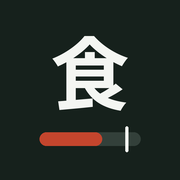
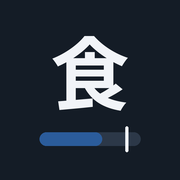
Add files via upload

Changed region(s): [[0.1944, 0.7222, 0.5833, 0.8333]]

diff --git a/index.html b/index.html
@@ -3,7 +3,7 @@
 <head>
 <meta charset="utf-8">
 <meta name="viewport" content="width=device-width, initial-scale=1, viewport-fit=cover">
-<meta name="theme-color" content="#16211C">
+<meta name="theme-color" content="#141C26">
 <title>Meal-log</title>
 <link rel="manifest" href="manifest.json">
 <link rel="icon" href="icon-192.png">
@@ -17,18 +17,24 @@
 <link href="https://fonts.googleapis.com/css2?family=Zen+Kaku+Gothic+New:wght@400;500;700&family=IBM+Plex+Mono:wght@400;500;600&display=swap" rel="stylesheet">
 <style>
 /* ============================================================
-   漆器（うるし）: 濃墨の地に朱と松葉。数字はタブular数字で桁を揃える
+   藍（あい）: 紺墨の地に藍と松葉。数字はタブular数字で桁を揃える
+
+   色は3状態を撃ち分けるためにある。全部を青にすると信号が死ぬので、
+   基調の藍＝まだ足りない、松葉＝届いた、金＝行き過ぎ、で使い分ける。
+   朱は削除ボタンだけに残す（取り返しのつかない操作の合図）
    ============================================================ */
 :root{
-  --bg:#E9EBE6;
+  --bg:#E9ECF1;
   --paper:#FFFFFF;
-  --ink:#16211C;
-  --ink-2:#3A4642;
-  --muted:#77817A;
-  --line:#D3D8D0;
-  --shu:#C4452D;        /* 朱 — 不足・行動を促す色 */
+  --ink:#141C26;
+  --ink-2:#3A4655;
+  --muted:#78828F;
+  --line:#D4D9E1;
+  --ai:#2B5C9B;         /* 藍 — 不足・行動を促す色 */
   --matsuba:#3A6B57;    /* 松葉 — 達成 */
   --kin:#B08A3E;        /* 金 — 超過の注意 */
+  --danger:#C4452D;     /* 朱 — 削除のみ */
+  --on-ink:#F1F4F8;     /* 濃地の上に載せる文字 */
   --r:4px;
   --pad:16px;
   --mono:"IBM Plex Mono",ui-monospace,monospace;
@@ -69,14 +75,14 @@ header .meta{font-family:var(--mono);font-size:12px;color:var(--muted);letter-sp
 .gauge-head .figs b{font-size:21px;font-weight:600;letter-spacing:-.02em}
 .gauge-head .figs span{font-size:12px;color:var(--muted);margin-left:3px}
 
-.track{position:relative;height:10px;background:#E4E7E1;border-radius:2px;overflow:hidden}
-.fill{position:absolute;inset:0 auto 0 0;background:var(--shu);border-radius:2px 0 0 2px;
+.track{position:relative;height:10px;background:#DEE3EA;border-radius:2px;overflow:hidden}
+.fill{position:absolute;inset:0 auto 0 0;background:var(--ai);border-radius:2px 0 0 2px;
       transition:width .45s cubic-bezier(.2,.7,.3,1)}
 .gauge.hit .fill{background:var(--matsuba)}
 .gauge.over .fill{background:var(--kin)}
 /* この先いつも通り食べた場合の着地点をハッチで見せる */
 .ghost{position:absolute;top:0;bottom:0;transition:left .45s,width .45s;
-  background:repeating-linear-gradient(115deg,#C4452D33 0 4px,transparent 4px 8px)}
+  background:repeating-linear-gradient(115deg,#2B5C9B33 0 4px,transparent 4px 8px)}
 .tick{position:absolute;top:-3px;bottom:-3px;width:2px;background:var(--ink);border-radius:1px}
 .gauge .note{margin:7px 0 0;font-size:12px;color:var(--muted)}
 .gauge .note b{font-family:var(--mono);color:var(--ink-2);font-weight:600}
@@ -87,7 +93,7 @@ header .meta{font-family:var(--mono);font-size:12px;color:var(--muted);letter-sp
   background:var(--paper);border:1px solid var(--line);border-radius:var(--r);
   padding:9px 12px;font-size:13px;display:flex;gap:7px;align-items:center;
 }
-.chip:active{background:#F3F5F1}
+.chip:active{background:#EEF1F6}
 .chip .p{font-family:var(--mono);font-size:11px;color:var(--muted)}
 
 /* --- 記録リスト -------------------------------------------- */
@@ -101,21 +107,36 @@ header .meta{font-family:var(--mono);font-size:12px;color:var(--muted);letter-sp
 .log-row .v b{font-weight:600}
 .log-row .v span{color:var(--muted)}
 .log-row{width:100%;text-align:left;font:inherit;color:inherit;cursor:pointer}
-.log-row:active{background:#F3F5F1}
+.log-row:active{background:#EEF1F6}
 .log-row .go{color:var(--muted);font-size:15px;flex:none;line-height:1}
 .empty{color:var(--muted);font-size:13px;padding:18px 2px}
-.danger{width:100%;padding:13px;font-size:13px;color:var(--shu);text-align:center}
-.danger.armed{background:var(--shu);color:#F4F6F2;border-radius:var(--r);font-weight:500}
+
+/* --- 食事の区分 -------------------------------------------- */
+.slot-head{display:flex;align-items:baseline;justify-content:space-between;margin:16px 2px 7px}
+.slot-head:first-child{margin-top:2px}
+.slot-head .nm{font-size:13px;font-weight:700;color:var(--ink-2)}
+.slot-head .sum{font-family:var(--mono);font-size:11px;color:var(--muted);
+  font-variant-numeric:tabular-nums;letter-spacing:.02em}
+.slotsel{display:flex;flex-wrap:wrap;gap:6px;margin:0 0 14px}
+.slotsel button{
+  padding:8px 13px;font-size:13px;border:1px solid var(--line);
+  border-radius:var(--r);background:var(--paper);color:var(--ink-2);
+}
+.slotsel button[aria-pressed="true"]{
+  background:var(--ink);color:var(--on-ink);border-color:var(--ink);font-weight:500}
+.slot-label{font-size:12px;color:var(--muted);margin:0 0 7px}
+.danger{width:100%;padding:13px;font-size:13px;color:var(--danger);text-align:center}
+.danger.armed{background:var(--danger);color:var(--on-ink);border-radius:var(--r);font-weight:500}
 
 /* --- 下部の操作 -------------------------------------------- */
 .dock{
   position:fixed;left:0;right:0;bottom:0;z-index:20;
-  background:linear-gradient(180deg,#E9EBE600,#E9EBE6 22%);
+  background:linear-gradient(180deg,#E9ECF100,#E9ECF1 22%);
   padding:16px var(--pad) calc(16px + env(safe-area-inset-bottom));
 }
 .dock-in{max-width:480px;margin:0 auto;display:flex;gap:8px}
 .btn{
-  flex:1;background:var(--ink);color:#F4F6F2;border-radius:var(--r);
+  flex:1;background:var(--ink);color:var(--on-ink);border-radius:var(--r);
   padding:15px 10px;font-size:14px;font-weight:500;text-align:center;
 }
 .btn:active{transform:translateY(1px)}
@@ -124,7 +145,7 @@ header .meta{font-family:var(--mono);font-size:12px;color:var(--muted);letter-sp
 
 /* --- シート（確認カード）----------------------------------- */
 .sheet{
-  position:fixed;inset:0;z-index:40;background:rgba(22,33,28,.45);
+  position:fixed;inset:0;z-index:40;background:rgba(20,28,38,.48);
   display:flex;align-items:flex-end;justify-content:center;
 }
 .sheet[hidden]{display:none}
@@ -137,7 +158,7 @@ header .meta{font-family:var(--mono);font-size:12px;color:var(--muted);letter-sp
 @keyframes rise{from{transform:translateY(18px);opacity:.4}to{transform:none;opacity:1}}
 .sheet-head{display:flex;align-items:baseline;justify-content:space-between;margin-bottom:4px}
 .sheet-head h2{font-size:18px}
-.sheet-note{font-size:12px;color:var(--shu);margin:0 0 16px}
+.sheet-note{font-size:12px;color:var(--ai);margin:0 0 16px}
 
 /* --- 品目と量トグル ---------------------------------------- */
 .item{background:var(--paper);border:1px solid var(--line);border-radius:var(--r);padding:13px 14px;margin-bottom:8px}
@@ -151,12 +172,12 @@ header .meta{font-family:var(--mono);font-size:12px;color:var(--muted);letter-sp
   border-right:1px solid var(--line);transition:background .15s;
 }
 .seg button:last-child{border-right:none}
-.seg button[aria-pressed="true"]{background:var(--ink);color:#F4F6F2;font-weight:500}
+.seg button[aria-pressed="true"]{background:var(--ink);color:var(--on-ink);font-weight:500}
 .item-figs{margin-top:9px;font-family:var(--mono);font-size:12px;color:var(--muted);letter-spacing:.02em}
 .item-figs b{color:var(--ink);font-weight:600}
 
 .total{
-  background:var(--ink);color:#F4F6F2;border-radius:var(--r);
+  background:var(--ink);color:var(--on-ink);border-radius:var(--r);
   padding:14px 16px;display:flex;align-items:baseline;justify-content:space-between;margin:14px 0 10px;
 }
 .total .k{font-family:var(--mono);font-size:24px;font-weight:600;letter-spacing:-.02em}
@@ -164,33 +185,37 @@ header .meta{font-family:var(--mono);font-size:12px;color:var(--muted);letter-sp
 .total .p{font-family:var(--mono);font-size:13px;opacity:.8;text-align:right}
 
 /* --- 入力 --------------------------------------------------- */
-input[type=text],input[type=email],input[type=number],textarea{
+/* iOSは入力欄の文字が16px未満だと、触れた瞬間に画面を勝手に拡大する。
+   viewportでズーム自体を禁じると指で広げられなくなるので、
+   拡大の口実の方を取り除く（＝16pxを下回らせない） */
+input[type=text],input[type=email],input[type=number],input[type=password],
+input[type=time],textarea,select{
   width:100%;background:var(--paper);border:1px solid var(--line);border-radius:var(--r);
-  padding:13px 14px;font:inherit;color:var(--ink);
+  padding:12px 14px;font:inherit;font-size:16px;color:var(--ink);
 }
-input:focus,textarea:focus,button:focus-visible{outline:2px solid var(--shu);outline-offset:1px}
+input:focus,textarea:focus,button:focus-visible{outline:2px solid var(--ai);outline-offset:1px}
 .row{display:flex;gap:8px}
 
 /* --- 週次レビュー ------------------------------------------- */
 .review{background:var(--paper);border:1px solid var(--line);border-radius:var(--r);padding:18px 16px}
 .review h3{font-size:16px;margin-bottom:10px}
 .review .sum{font-size:13px;color:var(--ink-2);white-space:pre-line;margin:0 0 14px}
-.review .act{border-left:3px solid var(--shu);padding:2px 0 2px 11px;font-size:14px;font-weight:500}
+.review .act{border-left:3px solid var(--ai);padding:2px 0 2px 11px;font-size:14px;font-weight:500}
 
 .authmsg{font-size:13px;margin:10px 2px 0;line-height:1.6}
-.authmsg.err{color:var(--shu)}
+.authmsg.err{color:var(--ai)}
 .authmsg.ok{color:var(--matsuba)}
 .authmsg[hidden]{display:none}
 .boot{color:var(--muted);font-size:13px;padding:26px 2px}
 
 .toast{
   position:fixed;left:50%;bottom:96px;transform:translateX(-50%);z-index:60;
-  background:var(--ink);color:#F4F6F2;padding:11px 18px;border-radius:var(--r);
+  background:var(--ink);color:var(--on-ink);padding:11px 18px;border-radius:var(--r);
   font-size:13px;white-space:nowrap;
 }
 .toast[hidden]{display:none}
-.spin{display:inline-block;width:13px;height:13px;border:2px solid #F4F6F244;
-  border-top-color:#F4F6F2;border-radius:50%;animation:sp .7s linear infinite;vertical-align:-2px}
+.spin{display:inline-block;width:13px;height:13px;border:2px solid #F1F4F844;
+  border-top-color:var(--on-ink);border-radius:50%;animation:sp .7s linear infinite;vertical-align:-2px}
 @keyframes sp{to{transform:rotate(360deg)}}
 
 @media (prefers-reduced-motion:reduce){
@@ -305,6 +330,26 @@ function today() {
   return new Date(jst.getTime() - 4*3600e3).toISOString().slice(0,10);
 }
 const DAY = today();
+
+/* 食事の区分。表示順はそのまま1日の流れになる */
+const SLOTS = [
+  { key:'breakfast',  label:'朝食' },
+  { key:'lunch',      label:'昼食' },
+  { key:'dinner',     label:'夕食' },
+  { key:'snack',      label:'間食' },
+  { key:'supplement', label:'補食' },
+  { key:'other',      label:'その他' },
+];
+
+/* マイフードからの1タップ記録には推定が挟まらないので、
+   時刻から当たりをつける。外れていてもその場で押し直せる */
+function guessSlot() {
+  const h = Number(new Date(Date.now() + 9*3600e3).toISOString().slice(11,13));
+  if (h >= 4  && h < 10) return 'breakfast';
+  if (h >= 10 && h < 15) return 'lunch';
+  if (h >= 17 && h < 22) return 'dinner';
+  return 'snack';
+}
 
 let state = { user:null, target:null, day:null, foods:[], entries:[], expected:null };
 
@@ -483,7 +528,7 @@ async function refresh() {
   const hour = Number(new Date(Date.now()+9*3600e3).toISOString().slice(11,13));
   const [tg, ent, fd, exp, rv] = await Promise.all([
     sb.rpc('nt_daily_target', { p_user: state.user.id, p_day: DAY }),
-    sb.from('nt_meal_entry').select('id,eaten_at,note,kcal,protein_g,fat_g,carb_g')
+    sb.from('nt_meal_entry').select('id,eaten_at,note,meal_slot,kcal,protein_g,fat_g,carb_g')
       .eq('eaten_on', DAY).order('eaten_at'),
     sb.from('nt_food').select('*').eq('is_archived', false)
       .order('use_count', { ascending:false }).limit(8),
@@ -578,7 +623,7 @@ function renderQuick() {
     const b = el('button','chip');
     b.innerHTML = `${f.emoji ?? '🍽'} ${f.name} <span class="p">P${Math.round(f.protein_g)}</span>`;
     b.onclick = () => openConfirm({
-      dish_name: f.name, meal_slot:'other', note:'', min_confidence:1,
+      dish_name: f.name, meal_slot: guessSlot(), note:'', min_confidence:1,
       items:[toItem(f)]
     }, 'myfood');
     box.append(b);
@@ -603,16 +648,49 @@ function renderLog() {
     box.innerHTML = '<p class="empty">まだ記録がありません。下のボタンから始められます。</p>';
     return;
   }
-  state.entries.forEach(e => {
-    const row = el('button','log-row');
-    const t = new Date(e.eaten_at).toLocaleTimeString('ja-JP',{hour:'2-digit',minute:'2-digit'});
-    row.innerHTML = `<span class="t num">${t}</span>
-      <span class="n">${e.note ?? '食事'}</span>
-      <span class="v"><b>${Math.round(e.kcal)}</b> kcal<br><span>P${Math.round(e.protein_g)}</span></span>
-      <span class="go" aria-hidden="true">›</span>`;
-    row.setAttribute('aria-label', `${e.note ?? '食事'} を直す`);
-    row.onclick = () => openEdit(e);
-    box.append(row);
+  // 記録順に並べるだけでは「間食がどれだけ積み上がっているか」が見えない。
+  // 区分ごとにまとめ、小計を添えて初めて意味のある比較になる
+  for (const s of SLOTS) {
+    const rows = state.entries.filter(e => (e.meal_slot ?? 'other') === s.key);
+    if (!rows.length) continue;
+
+    const sum = rows.reduce((a, e) => ({
+      kcal: a.kcal + Number(e.kcal), p: a.p + Number(e.protein_g)
+    }), { kcal:0, p:0 });
+
+    const head = el('div','slot-head');
+    head.innerHTML = `<span class="nm">${s.label}</span>
+      <span class="sum">${Math.round(sum.kcal)} kcal　P${Math.round(sum.p)}</span>`;
+    box.append(head);
+
+    rows.forEach(e => box.append(logRow(e)));
+  }
+}
+
+function logRow(e) {
+  const row = el('button','log-row');
+  const t = new Date(e.eaten_at).toLocaleTimeString('ja-JP',{hour:'2-digit',minute:'2-digit'});
+  row.innerHTML = `<span class="t num">${t}</span>
+    <span class="n">${e.note ?? '食事'}</span>
+    <span class="v"><b>${Math.round(e.kcal)}</b> kcal<br><span>P${Math.round(e.protein_g)}</span></span>
+    <span class="go" aria-hidden="true">›</span>`;
+  row.setAttribute('aria-label', `${e.note ?? '食事'} を直す`);
+  row.onclick = () => openEdit(e);
+  return row;
+}
+
+/* 確認カード・修正画面の両方で使う区分の選択 */
+function drawSlots() {
+  const box = $('#slotSel');
+  if (!box) return;
+  box.innerHTML = '';
+  SLOTS.forEach(s => {
+    const b = el('button');
+    b.type = 'button';
+    b.textContent = s.label;
+    b.setAttribute('aria-pressed', String(draft.meal_slot === s.key));
+    b.onclick = () => { draft.meal_slot = s.key; drawSlots(); };
+    box.append(b);
   });
 }
 
@@ -660,6 +738,7 @@ async function openEdit(entry) {
     draft = {
       entry_id: entry.id,
       dish_name: entry.note ?? '食事',
+      meal_slot: entry.meal_slot ?? 'other',
       items,
       originalIds: items.map(i => i.id),
     };
@@ -669,7 +748,9 @@ async function openEdit(entry) {
         <button data-close style="color:var(--muted);font-size:13px">やめる</button></div>
       <p class="sheet-note">量を選び直すか、いらない品目を × で外してください</p>
       <input type="text" id="editName" placeholder="食事の名前">
-      <div style="height:12px"></div>
+      <div style="height:14px"></div>
+      <p class="slot-label">いつの食事？</p>
+      <div class="slotsel" id="slotSel"></div>
       <div id="items"></div>
       <div class="total" id="total"></div>
       <button class="btn" id="commit" style="width:100%">保存する</button>
@@ -677,6 +758,7 @@ async function openEdit(entry) {
       <button class="danger" id="delEntry">この記録を削除</button>
       <div style="height:6px"></div>`);
     $('#editName').value = draft.dish_name;
+    drawSlots();
     drawItems();
     $('#commit').onclick = commit;
     armDelete();
@@ -808,15 +890,22 @@ async function shrink(file) {
    ============================================================ */
 let draft = null;
 function openConfirm(result, method) {
-  draft = { ...result, method, items: result.items.map(i => ({...i})) };
+  draft = {
+    ...result, method,
+    meal_slot: result.meal_slot ?? guessSlot(),
+    items: result.items.map(i => ({...i})),
+  };
   sheet(`
     <div class="sheet-head"><h2 id="dishName">${draft.dish_name}</h2>
       <button data-close style="color:var(--muted);font-size:13px">やめる</button></div>
     ${draft.note ? `<p class="sheet-note">${draft.note}</p>` : '<div style="height:12px"></div>'}
+    <p class="slot-label">いつの食事？</p>
+    <div class="slotsel" id="slotSel"></div>
     <div id="items"></div>
     <div class="total" id="total"></div>
     <button class="btn" id="commit" style="width:100%">この内容で記録する</button>
     <div style="height:6px"></div>`);
+  drawSlots();
   drawItems();
   $('#commit').onclick = commit;
 }
@@ -923,7 +1012,7 @@ async function commitEdit() {
 
     const name = ($('#editName')?.value ?? '').trim() || '食事';
     const { error: e2 } = await sb.from('nt_meal_entry')
-      .update({ note: name }).eq('id', id);
+      .update({ note: name, meal_slot: draft.meal_slot ?? 'other' }).eq('id', id);
     if (e2) throw e2;
 
     closeSheet(); toast('直しました'); refresh();
